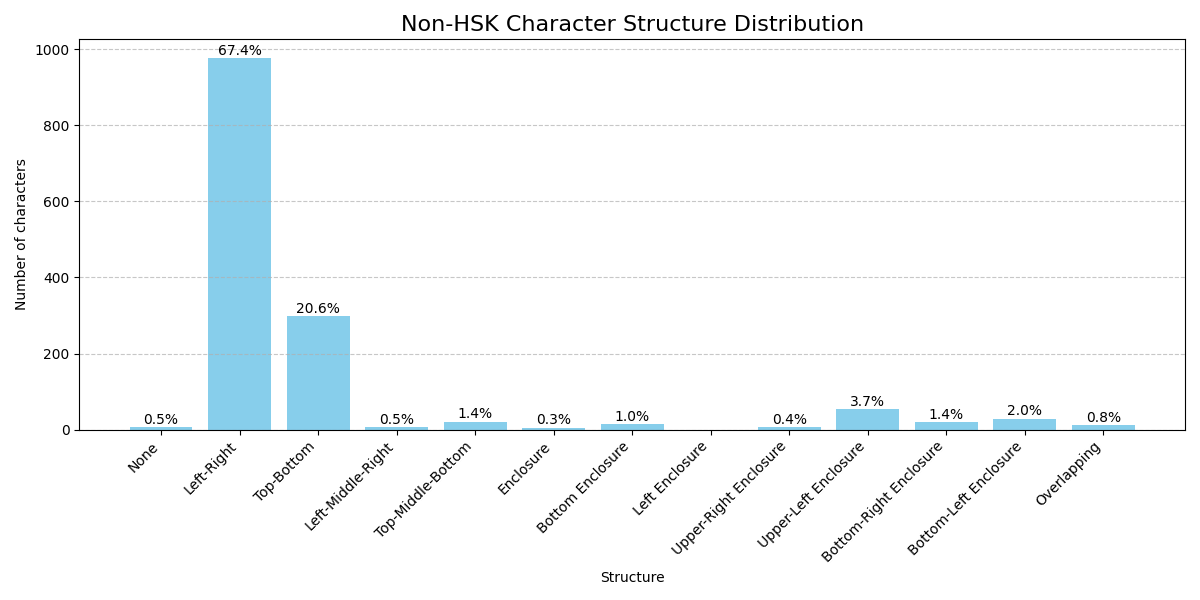
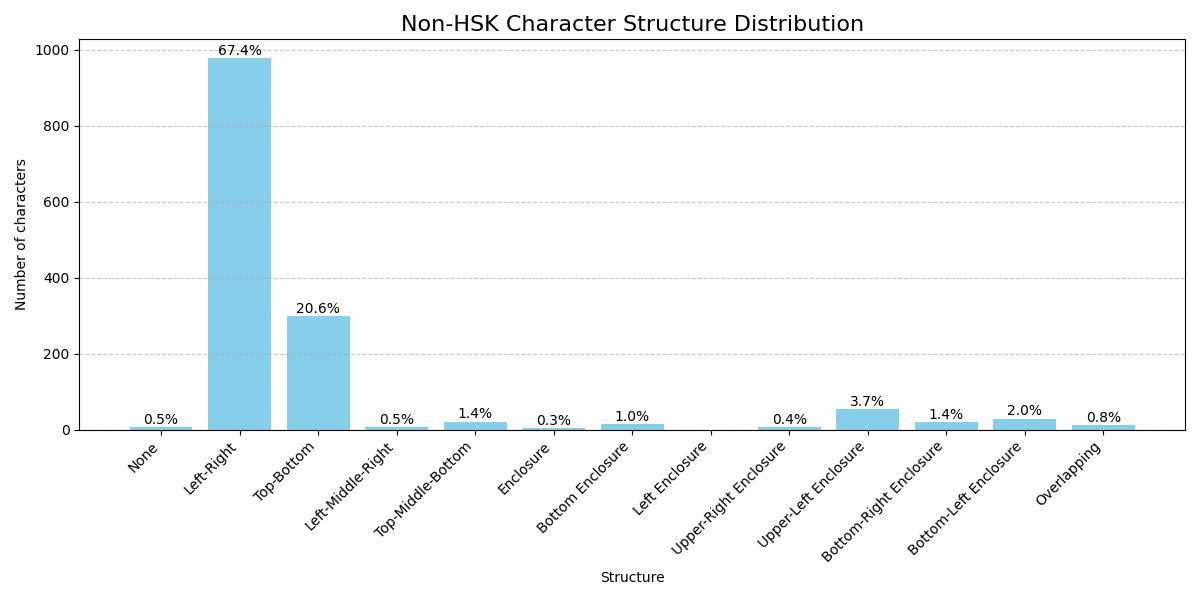
update sources report

Changed region(s): [[0.4317, 0.69, 0.4933, 0.72]]

diff --git a/sources/generate_character_structure_histogram_report.py b/sources/generate_character_structure_histogram_report.py
@@ -11,7 +11,7 @@ from datetime import datetime
 import os
 
 # --- Configuration ---
-mteh_file = '../mteh.txt'
+mteh_file = '../versions/v0.1.3/mteh_v0.1.3.txt'
 report_md = 'character_structure_histogram_report.md'
 output_dir = os.getcwd()  # save images in current directory
 

diff --git a/sources/character_structure_histogram_report.md b/sources/character_structure_histogram_report.md
@@ -1,8 +1,8 @@
 # Character Structure Histogram Report
 
-Report generated on: 2026-02-17 10:37:55; Python script written by ChatGPT
+Report generated on: 2026-02-17 10:41:32; Python script written by ChatGPT
 
-Checking MteH file: ../mteh.txt
+Checking MteH file: ../versions/v0.1.3/mteh_v0.1.3.txt
 
 ## Full MteH Character Structure Distribution
 
